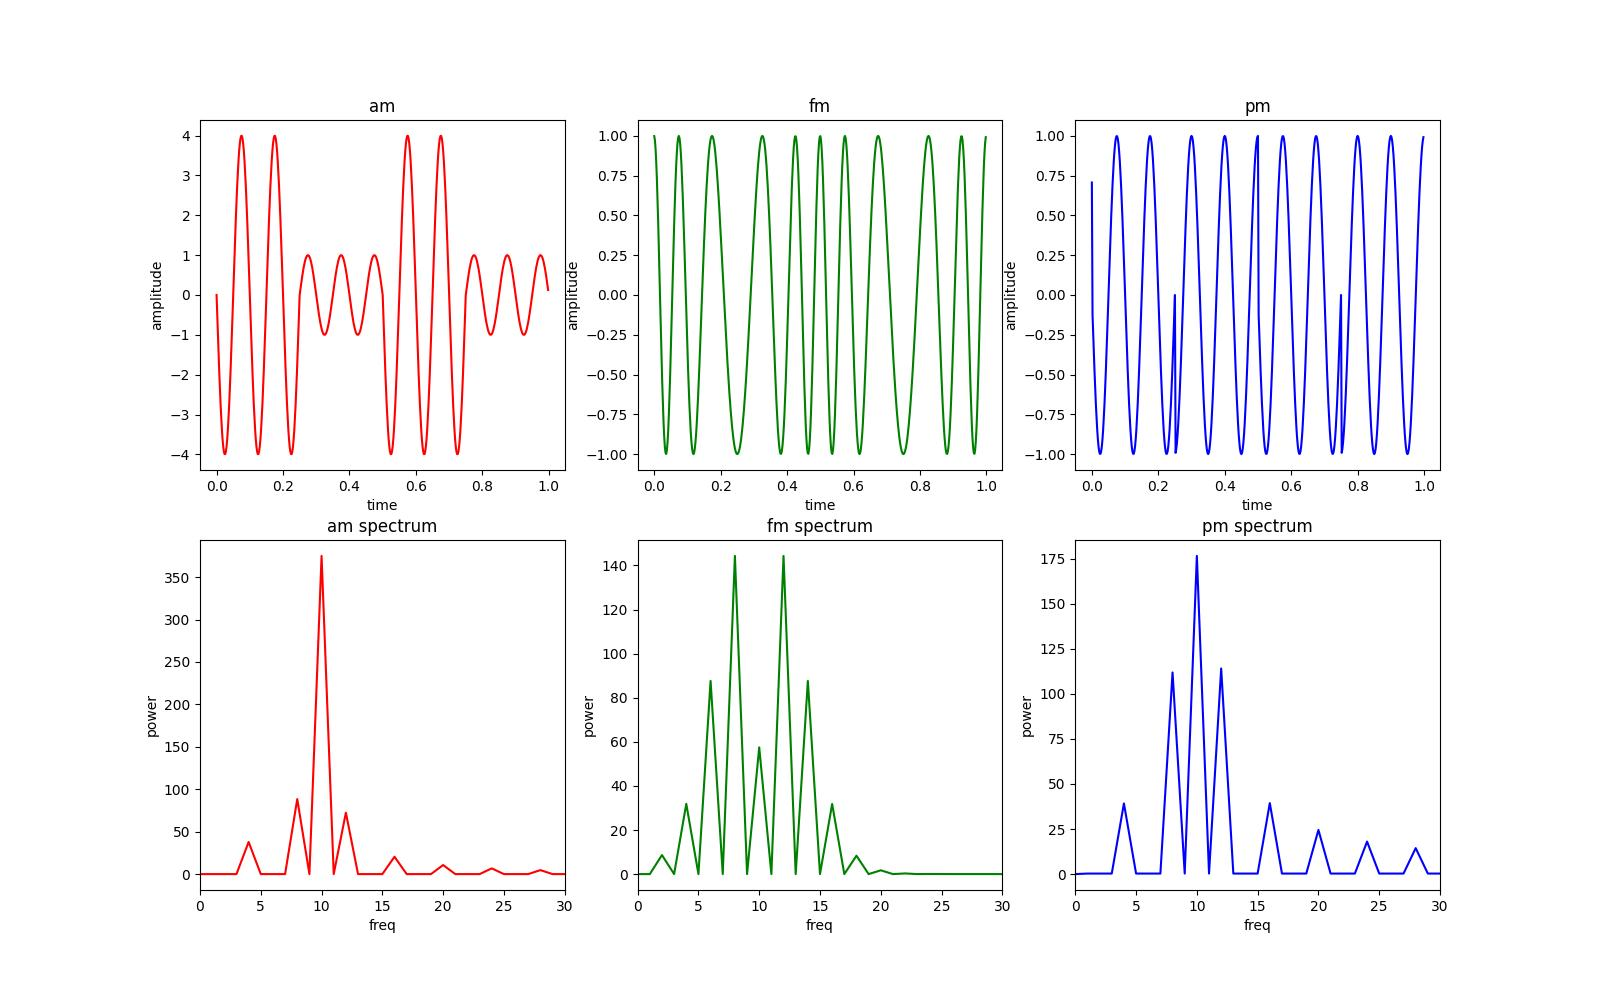
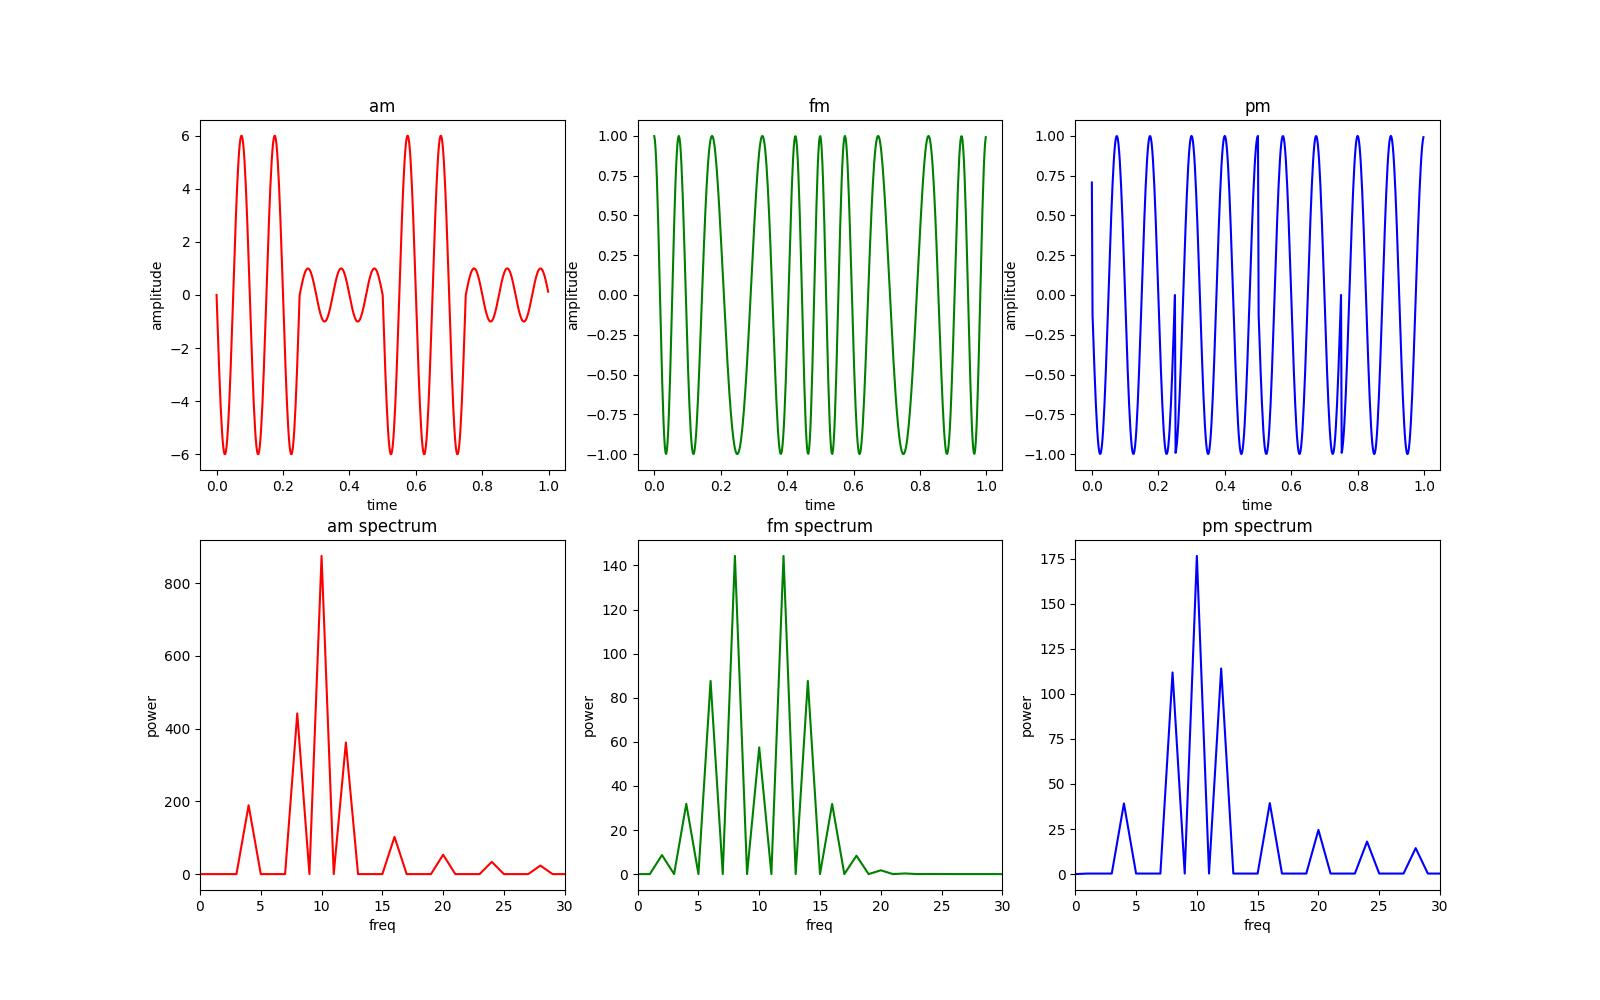
fix some errors

diff --git a/Shoforostov(tipis2)/modulation.py b/Shoforostov(tipis2)/modulation.py
@@ -28,77 +28,66 @@ def frequency_modulation(freq=2):
 
 def phase_modulation(freq=2):
     fc = 10
-    # carrier = 1 * np.cos((2 * np.pi * fc * TIME) + np.pi / 2)
     modulator = unipolar_meander(freq)
     beta = np.pi / 2
     pm = np.cos((fc * 2 * np.pi * TIME) + (beta * modulator))
     return pm
 
 
-def modulation_spectrum(modulation, freq=2):
-    y = modulation(freq)
-    n = len(y)
+def modulation_spectrum(modulation):
+    n = len(modulation)
     frq = rfftfreq(n, 1 / FS)
-    yf = rfft(y)  # деление на n - нормализация
+    yf = rfft(modulation)
     yf[0] = 0
     return frq, yf
 
 
-# def amplitude_modulation_spectrum(freq=2):
-#     y = amplitude_modulation(freq)
-#     n = len(y)
+# def amplitude_modulation_spectrum(am):
+#     n = len(am)
 #     # frq = np.arange(n)
 #     # frq = frq[range(int(n))]
 #     frq = rfftfreq(n, 1 / FS)
-#     yf = rfft(y)  # деление на n - нормализация
+#     yf = rfft(am)  # деление на n - нормализация
 #     # yf = (np.abs(s1) ** 2) / n
 #     # yf = yf[range(int(n))]
 #     yf[0] = 0
 #     return frq, yf
-
-
-# def frequency_modulation_spectrum(freq=2):
-#     y = frequency_modulation(freq)
-#     n = len(y)
+#
+#
+# def frequency_modulation_spectrum(fm):
+#     n = len(fm)
 #     frq = rfftfreq(n, 1 / FS)
-#     yf = rfft(y)
+#     yf = rfft(fm)
+#     yf[0] = 0
+#     return frq, yf
+#
+#
+# def phase_modulation_spectrum(pm):
+#     n = len(pm)
+#     frq = rfftfreq(n, 1 / FS)
+#     yf = rfft(pm)
 #     yf[0] = 0
 #     return frq, yf
 
 
-# def phase_modulation_spectrum(freq=2):
-#     y = phase_modulation(freq)
-#     n = len(y)
-#     frq = rfftfreq(n, 1 / FS)
-#     yf = rfft(y)
-#     yf[0] = 0
-#     return frq, yf
-
-
-def synthesis_of_amplitude_modulation_signal():
-    _, yf = modulation_spectrum(amplitude_modulation)
-    new_sig = irfft(yf)
-    return new_sig
-
-
-def spectrum_with_main_frequencies():
-    _, yf = modulation_spectrum(amplitude_modulation)
-    yf_abs = np.abs(yf)
-    index = yf_abs > 50
-    yf_clean = index * yf
+def spectrum_with_main_frequencies(am_spectrum):
+    # yf = am_spectrum[1]
+    yf_abs = np.abs(am_spectrum)
+    average = max(yf_abs) / 2
+    index = yf_abs > average
+    yf_clean = index * am_spectrum
     return yf_clean
 
 
-def synthesis_of_am_signal():
-    yf_clean = spectrum_with_main_frequencies()
-    f_clean = irfft(yf_clean)
+def synthesis_of_am_signal(spectrum_with_main_frequencies):
+    f_clean = irfft(spectrum_with_main_frequencies)
     return f_clean
 
 
-def execute_filter_signal(synthesized_signal):
-    y = synthesized_signal()
+def filtering_of_signal(synthesized_signal):
+    y = synthesized_signal
     filtered = []
-    b, a = butter(4, 0.008)
+    b, a = butter(4, 0.007)
     for i in filtfilt(b, a, y):
         filtered.append((sign(i) + 1) / 2)
     return filtered

diff --git a/Shoforostov(tipis2)/main.py b/Shoforostov(tipis2)/main.py
@@ -1,8 +1,8 @@
 import matplotlib.pyplot as plt
-import numpy as np
+import os
 
 from modulation import *
-import os
+
 
 if __name__ == '__main__':
 
@@ -11,18 +11,18 @@ if __name__ == '__main__':
     spectrum_names = ["am spectrum", "fm spectrum", "pm spectrum"]
 
     freq = 2
-    amplitude = 3
+    amplitude = 5
 
     plt.figure(figsize=(16, 10))
 
     am = amplitude_modulation(freq=freq, amplitude=amplitude)
-    ams_x, ams_y = modulation_spectrum(amplitude_modulation, freq=freq)
+    ams_x, ams_y = modulation_spectrum(modulation=am)
 
     fm = frequency_modulation(freq=freq)
-    fms_x, fms_y = modulation_spectrum(frequency_modulation, freq)
+    fms_x, fms_y = modulation_spectrum(modulation=fm)
 
     pm = phase_modulation(freq=freq)
-    pms_x, pms_y = modulation_spectrum(phase_modulation, freq=freq)
+    pms_x, pms_y = modulation_spectrum(modulation=pm)
 
     modulations = [am, fm, pm]
 
@@ -51,24 +51,36 @@ if __name__ == '__main__':
 
     plt.figure(figsize=(16, 10))
 
-    yf_clean = spectrum_with_main_frequencies()
+    ams_y_clean = spectrum_with_main_frequencies(am_spectrum=ams_y)
     plt.subplot(2, 2, 1)
-    plt.plot(ams_x, np.abs(yf_clean))
+    plt.plot(ams_x, np.abs(ams_y_clean))
+    plt.title('am spectrum with main frequencies')
+    plt.ylabel('amplitude')
+    plt.xlabel('freq')
     plt.xlim(0, 25)
 
-    f_clean = synthesis_of_am_signal()
+    ams_synthesis = synthesis_of_am_signal(ams_y_clean)
     plt.subplot(2, 2, 2)
-    plt.plot(TIME, f_clean)
+    plt.plot(TIME, ams_synthesis)
+    plt.title('synthesis of am signal')
+    plt.ylabel('amplitude')
+    plt.xlabel('time')
 
     meander = unipolar_meander(freq, amplitude=1)
-    # meander[0] = 0
+    meander[0] = 0
     plt.subplot(2, 2, 3)
     plt.plot(TIME, meander)
+    plt.title('modulating signal')
+    plt.ylabel('amplitude')
+    plt.xlabel('time')
 
-    filtering = execute_filter_signal(synthesis_of_am_signal)
+    filtering = filtering_of_signal(ams_synthesis)
+    filtering[0] = 0
     plt.subplot(2, 2, 4)
-    t2 = np.arange(0, 1, 1 / len(filtering))
     plt.plot(TIME, filtering)
+    plt.title('filtered signal')
+    plt.ylabel('amplitude')
+    plt.xlabel('time')
 
     plt.savefig(images + '/synthesisAndFiltration.jpg')
 
